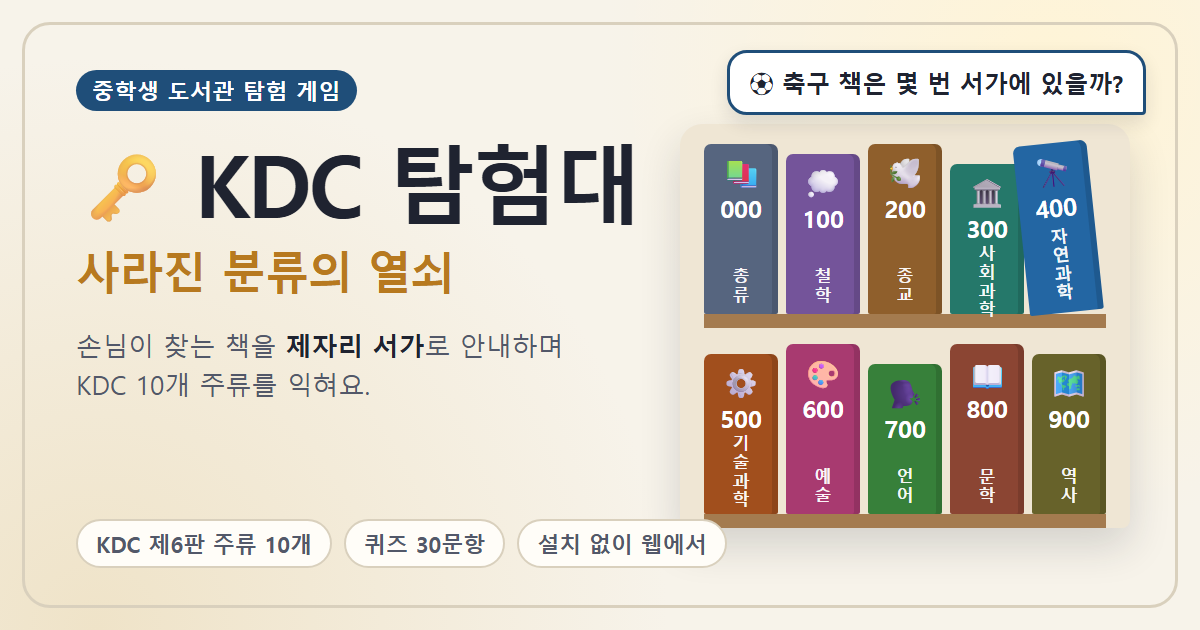
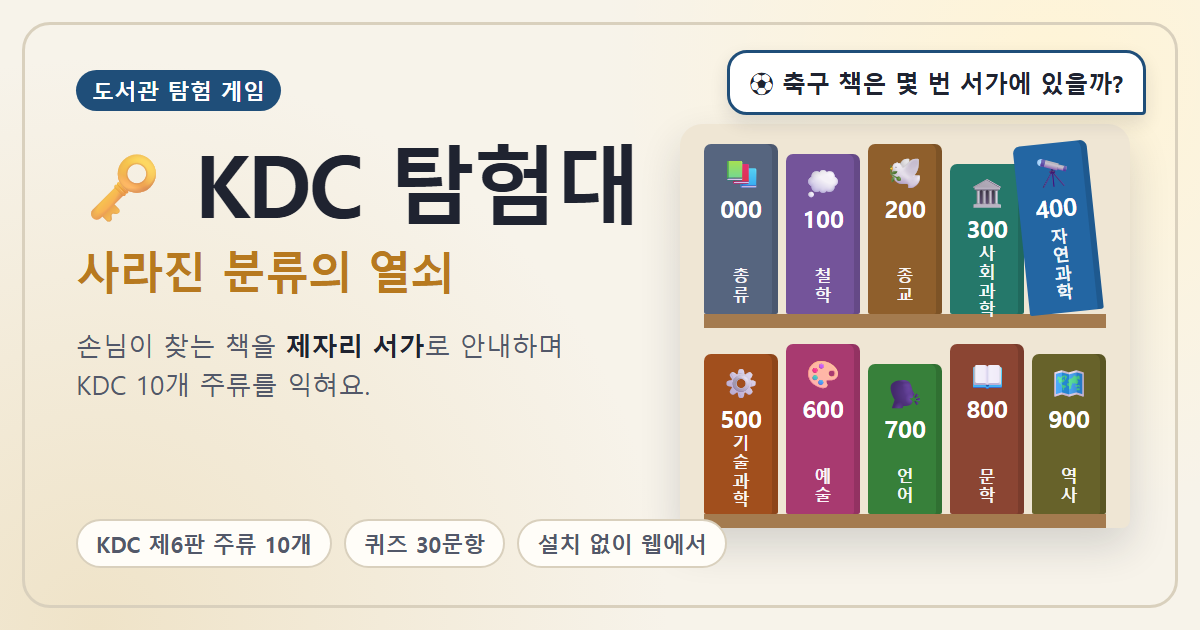
OG 이미지: 상단 문구에서 '중학생' 삭제

Changed region(s): [[0.0617, 0.0905, 0.3083, 0.181]]

diff --git a/kdc-explorer/design/og-image.html b/kdc-explorer/design/og-image.html
@@ -209,7 +209,7 @@
     <div class="frame"></div>
 
     <div class="copy">
-      <span class="eyebrow">중학생 도서관 탐험 게임</span>
+      <span class="eyebrow">도서관 탐험 게임</span>
       <h1><span class="key">🗝</span> KDC 탐험대</h1>
       <p class="subtitle">사라진 분류의 열쇠</p>
       <p class="tagline">
